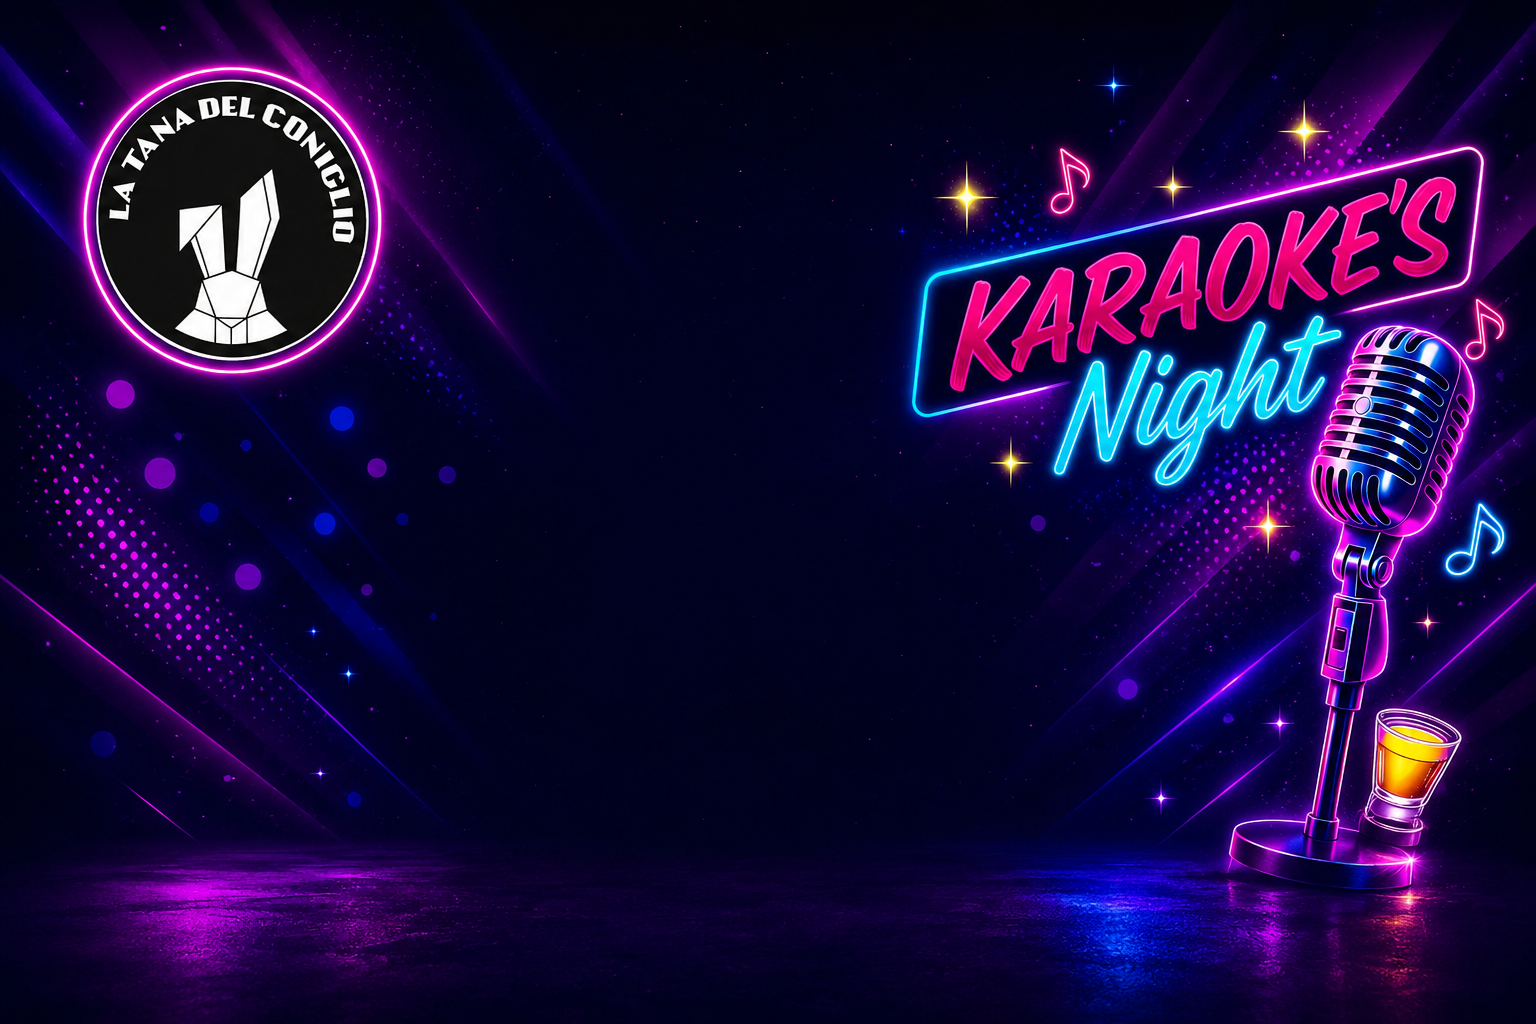
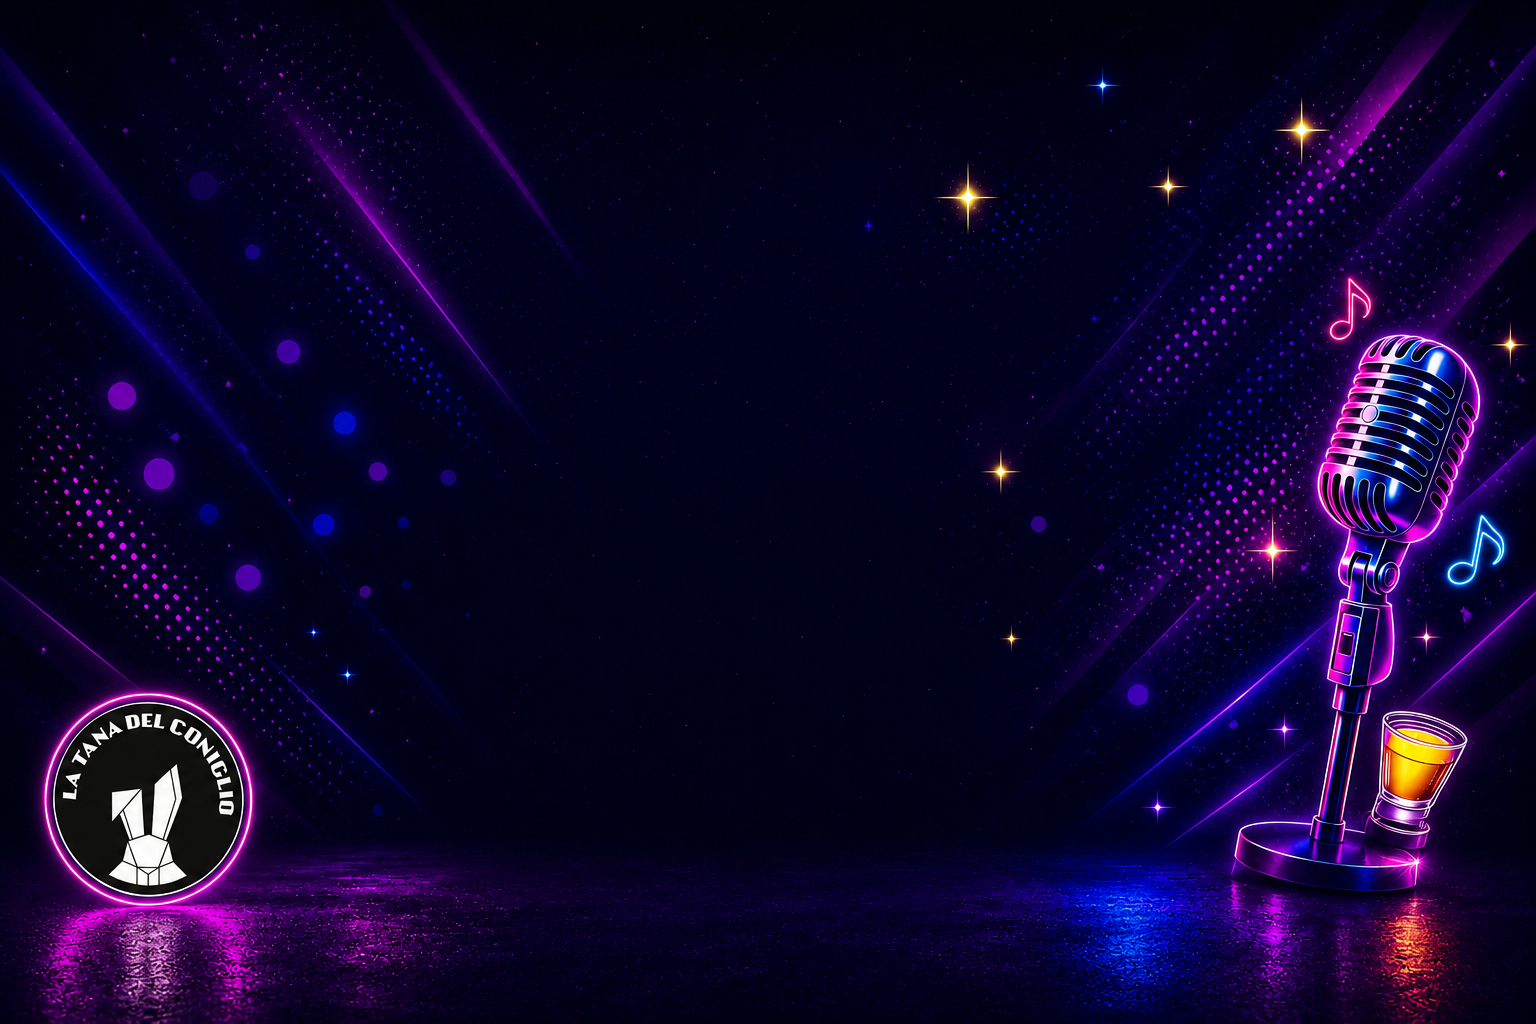
Fix vertical background fade in home page

diff --git a/index.html b/index.html
@@ -40,15 +40,15 @@
       content: "";
       position: fixed;
       inset: 0;
-      background-image: url('bg_kar_tana.png');
+      background-image:
+        linear-gradient(to bottom, rgba(18, 7, 31, 0) 56%, rgba(18, 7, 31, 0.74) 82%, rgba(18, 7, 31, 0.96) 100%),
+        url('bg_kar_tana.png');
       background-size: contain;
-      background-position: center bottom;
+      background-position: center top;
       background-repeat: no-repeat;
       filter: blur(0.1px) saturate(0.82) brightness(0.86);
       transform: scale(1.04);
-      opacity: 0.28;
-      -webkit-mask-image: radial-gradient( ellipse at center, black 50%, rgba(0, 0, 0, 0.85) 40%, transparent 70% );
-      mask-image: radial-gradient( ellipse at center, black 50%, rgba(0, 0, 0, 0.85) 40%, transparent 70% );
+      opacity: 0.34;
       z-index: -1;
       pointer-events: none;
     }